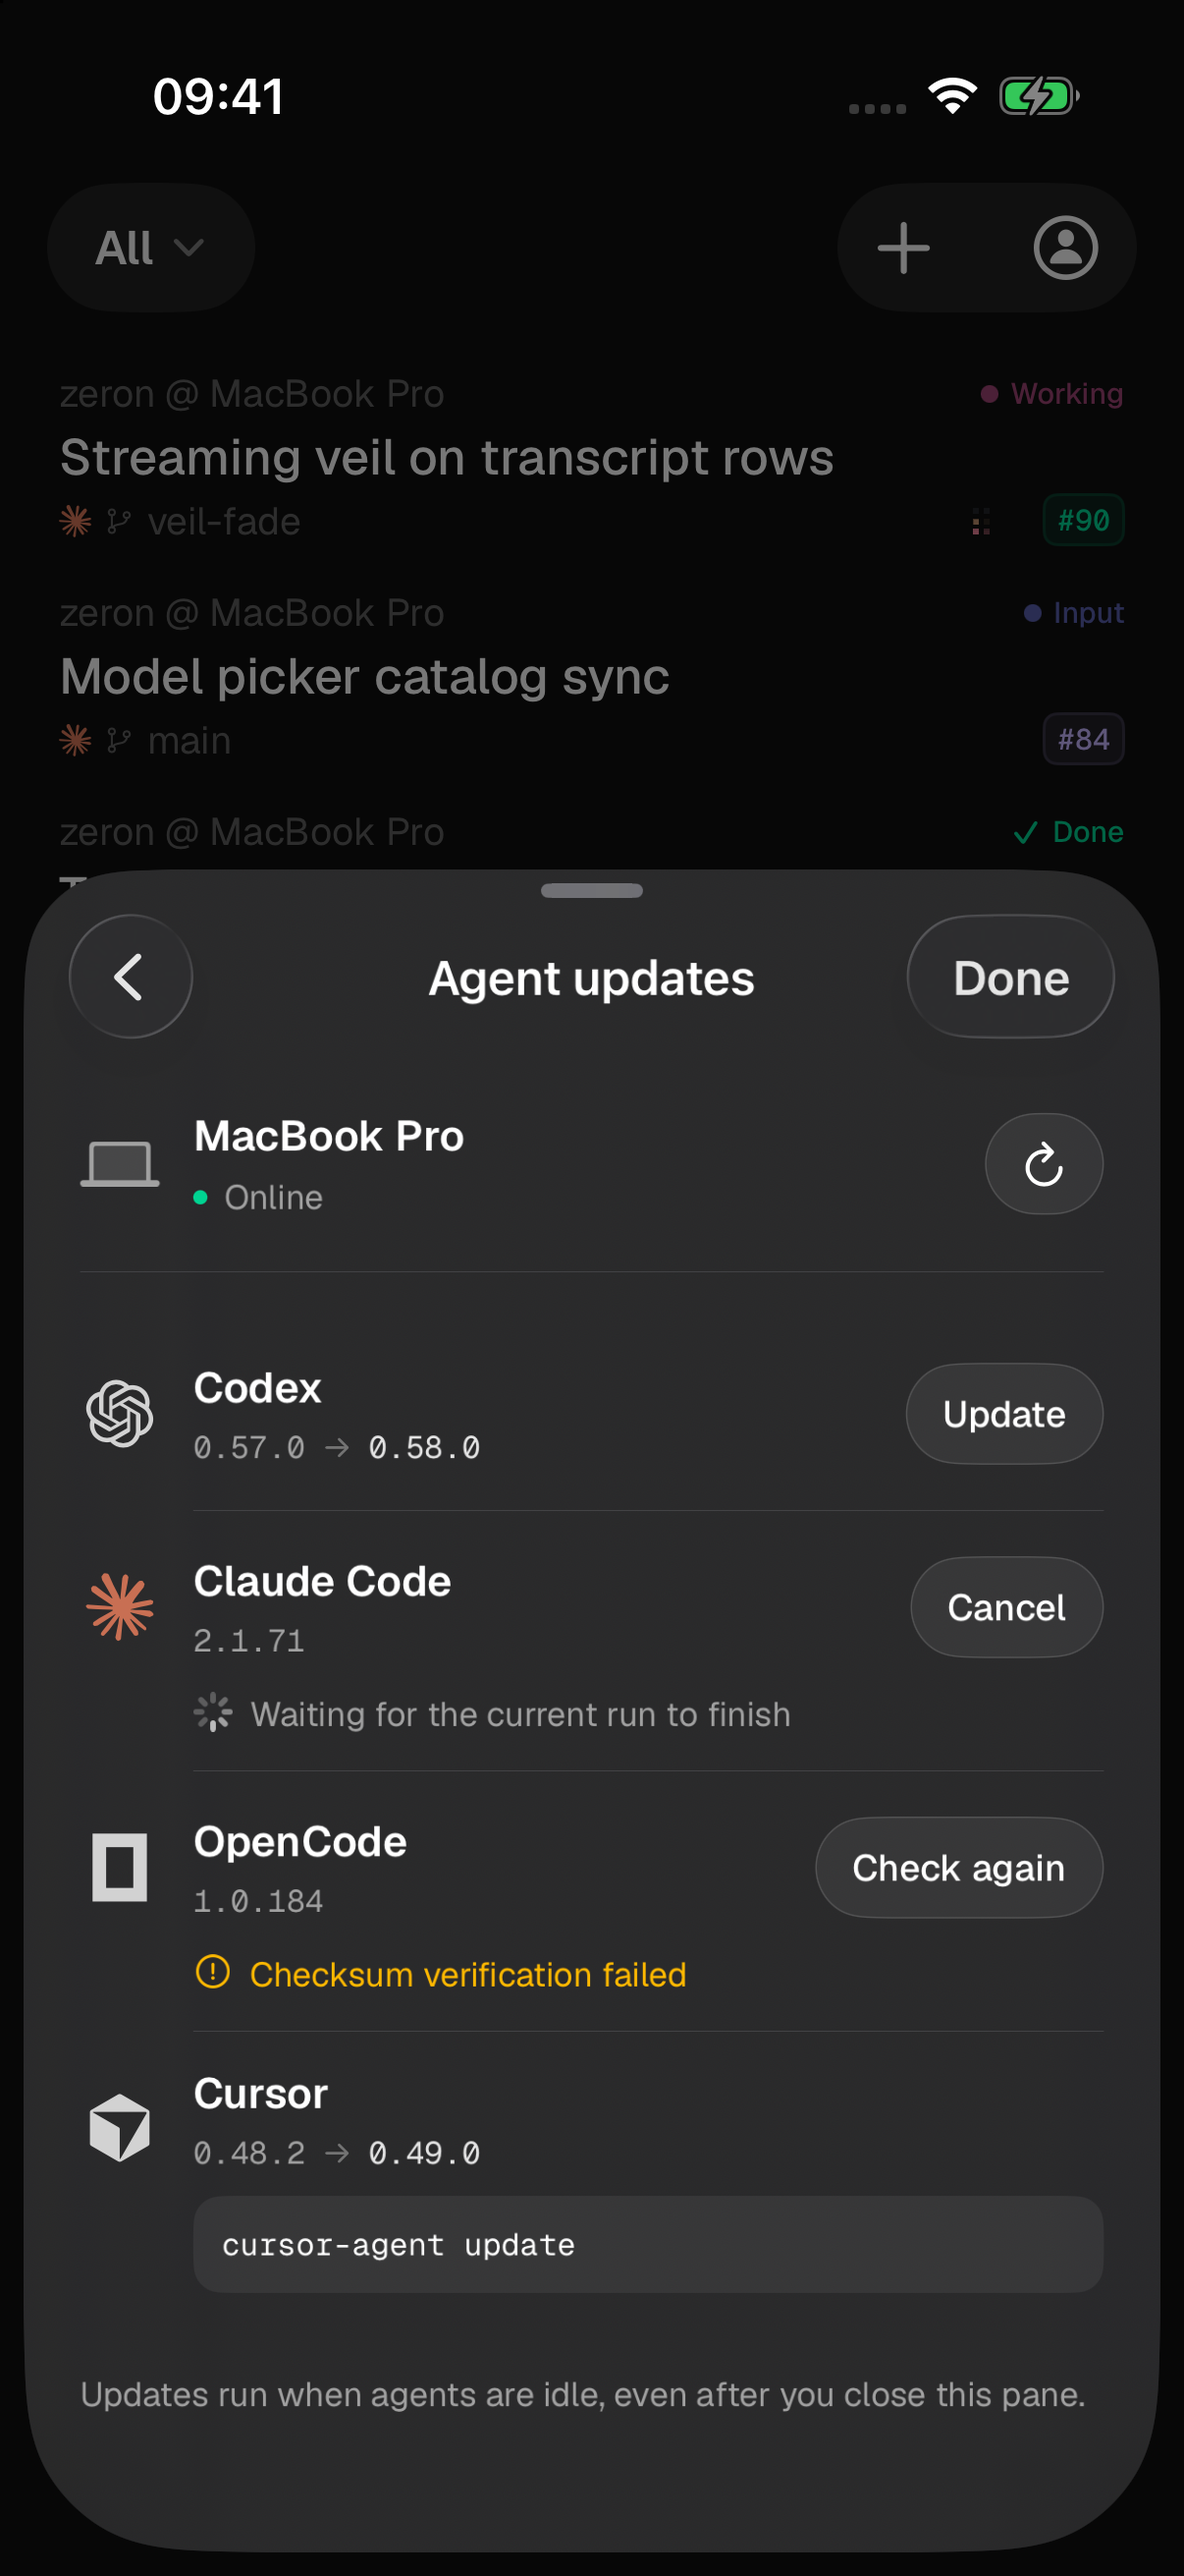
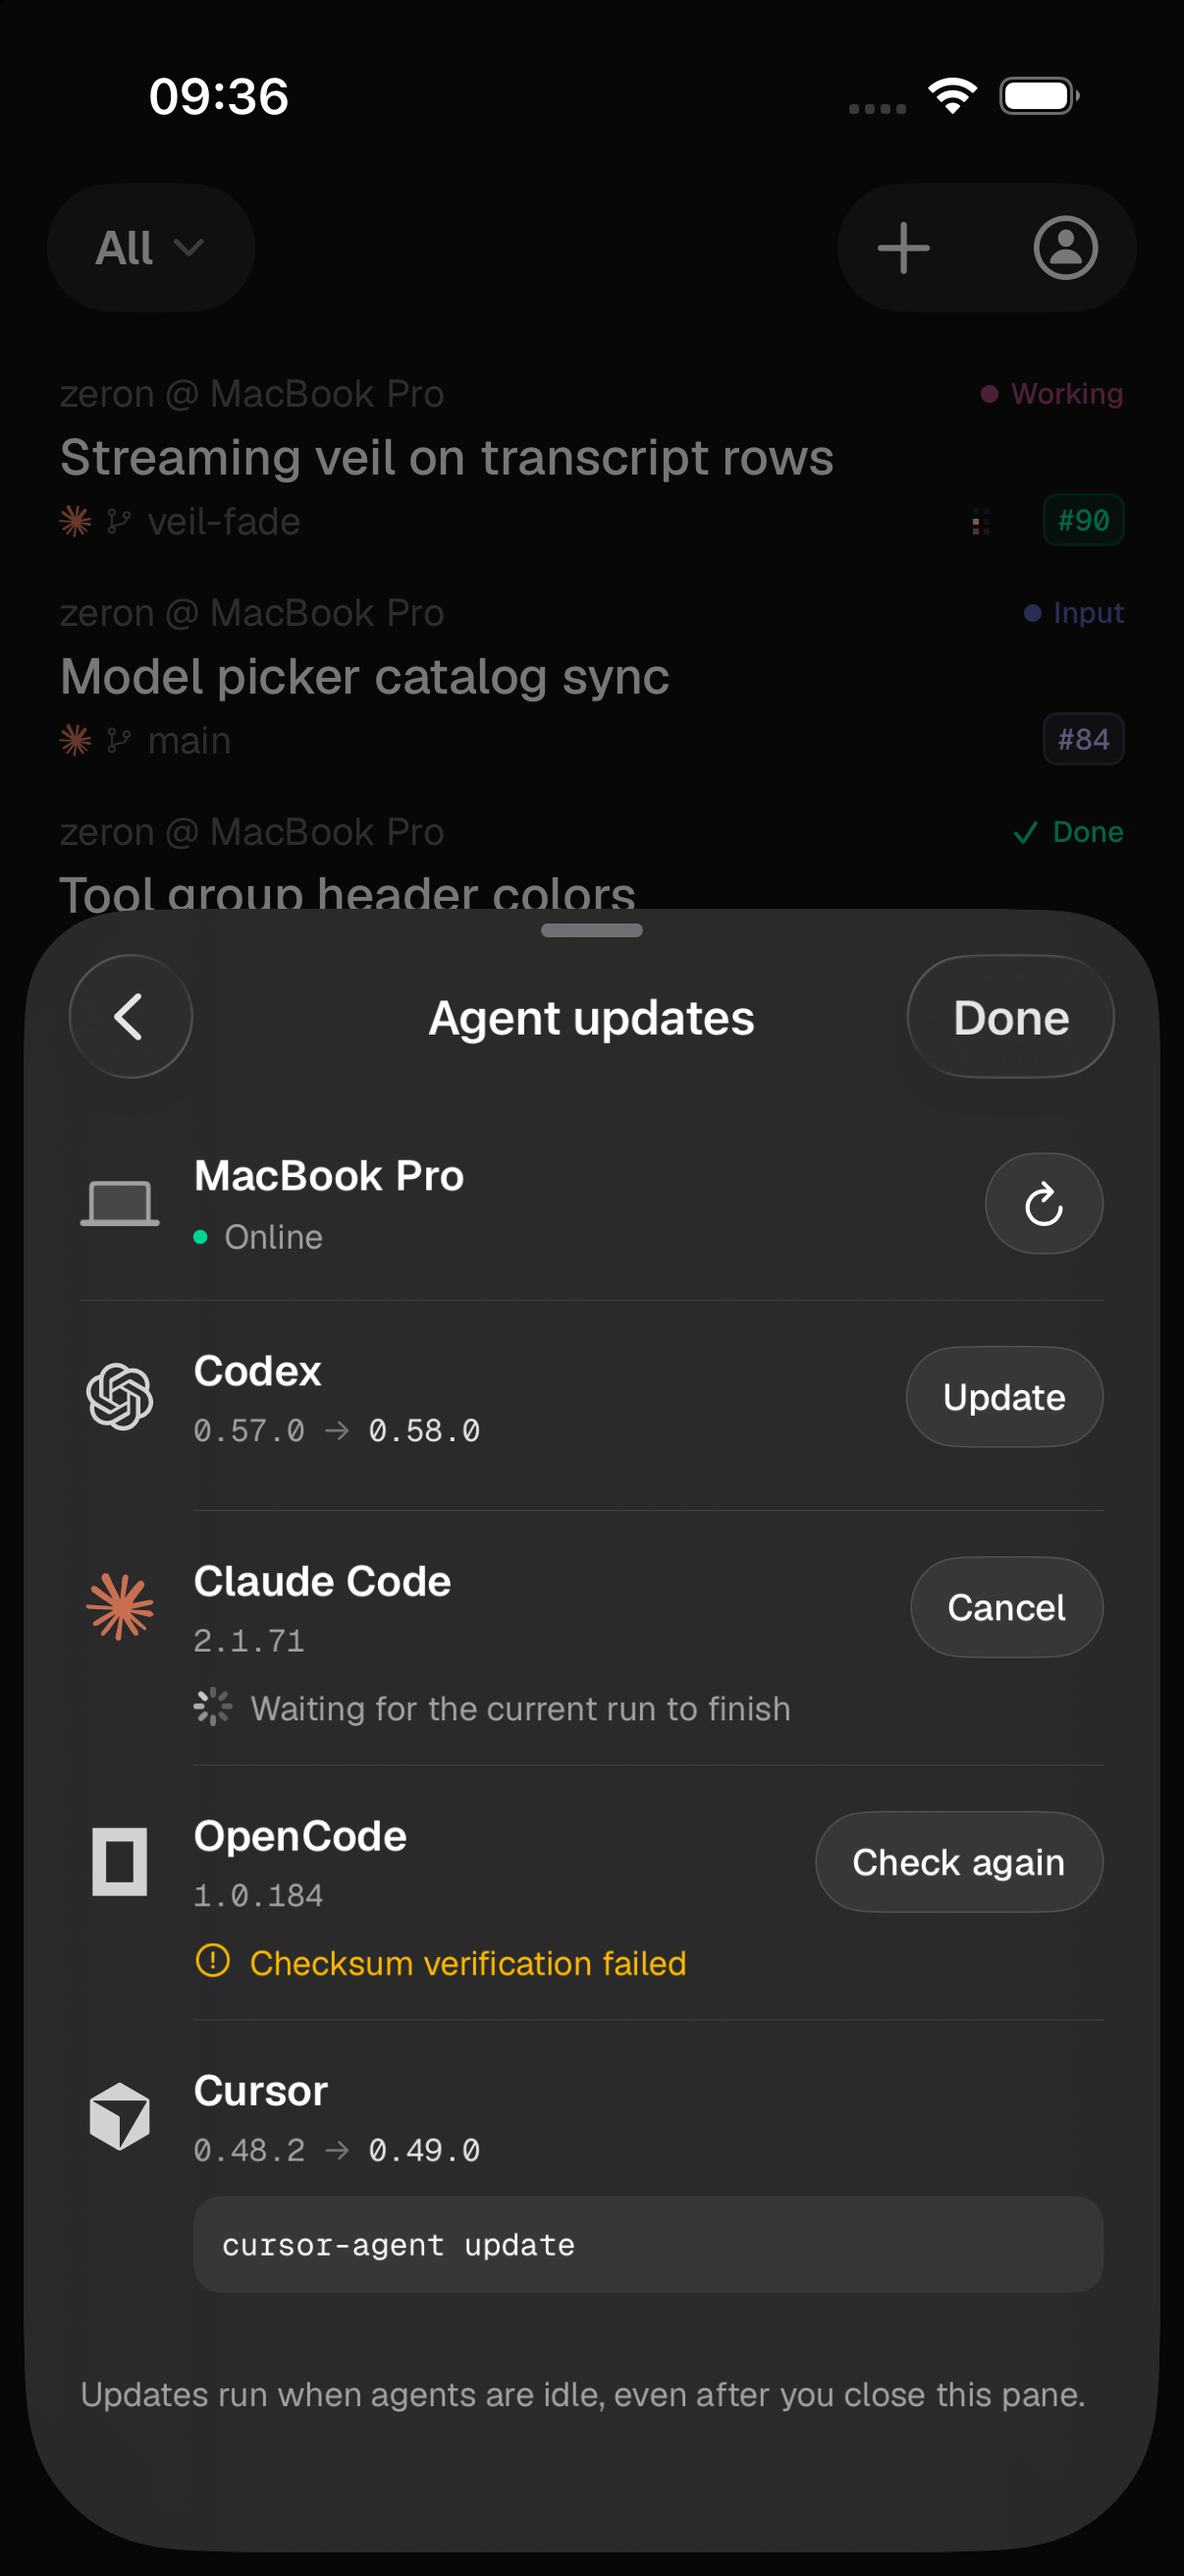
Refresh mobile row captures at 15af555a

diff --git a/ios-evidence.md b/ios-evidence.md
@@ -1,9 +1,8 @@
-# Native mobile sheet evidence
+# Mobile rows at 15af555a
 
-Branch fix/harness-update-lifecycle, SHA 5d139f8f. Worktree /Users/gaelcado/zeron/work/agent-updates.
-Build: /tmp/pr389-ios-evidence/Build/Products/Debug-iphonesimulator/Zeron.app/Zeron.
-iPhone 17 Pro, iOS 26.3, simulator 21D6E476-0681-4087-845F-0E860E50CCEE. Dark appearance, default text size, demo fixtures.
-Captures: native simctl framebuffer, updates.png (-demo -route updates:dev-mac), devices.png (-demo -sheet devices).
-Build and 2 HarnessUpdatesUITests passed; /tmp/pr389-native-sheet-tests.xcresult.
-Both pane corner masks and toolbar outlines visually inspected.
-Not verified in this iteration: other devices/OS versions, RTL, larger text, slowed motion.
+Source: fix/harness-update-lifecycle at 15af555a, rebased onto bbf590c8.
+Executable: /tmp/pr389-ios-evidence/Build/Products/Debug-iphonesimulator/Zeron.app/Zeron.
+iPhone 17 Pro / iOS 26.3, simulator 4FC55F0A-1A0E-4088-9736-D2CAB560B01A. Dark appearance, default text size, synthetic demo data.
+Native framebuffer captures: -demo -route updates:dev-mac; -demo -sheet devices.
+Both UI tests passed after row sizing correction. The strengthened available-row hittability test also passed. Desktop UI compile passed after rebase; workspace formatting reports unrelated drift.
+Other sizes, RTL and accessibility text sizes not verified in this iteration.
